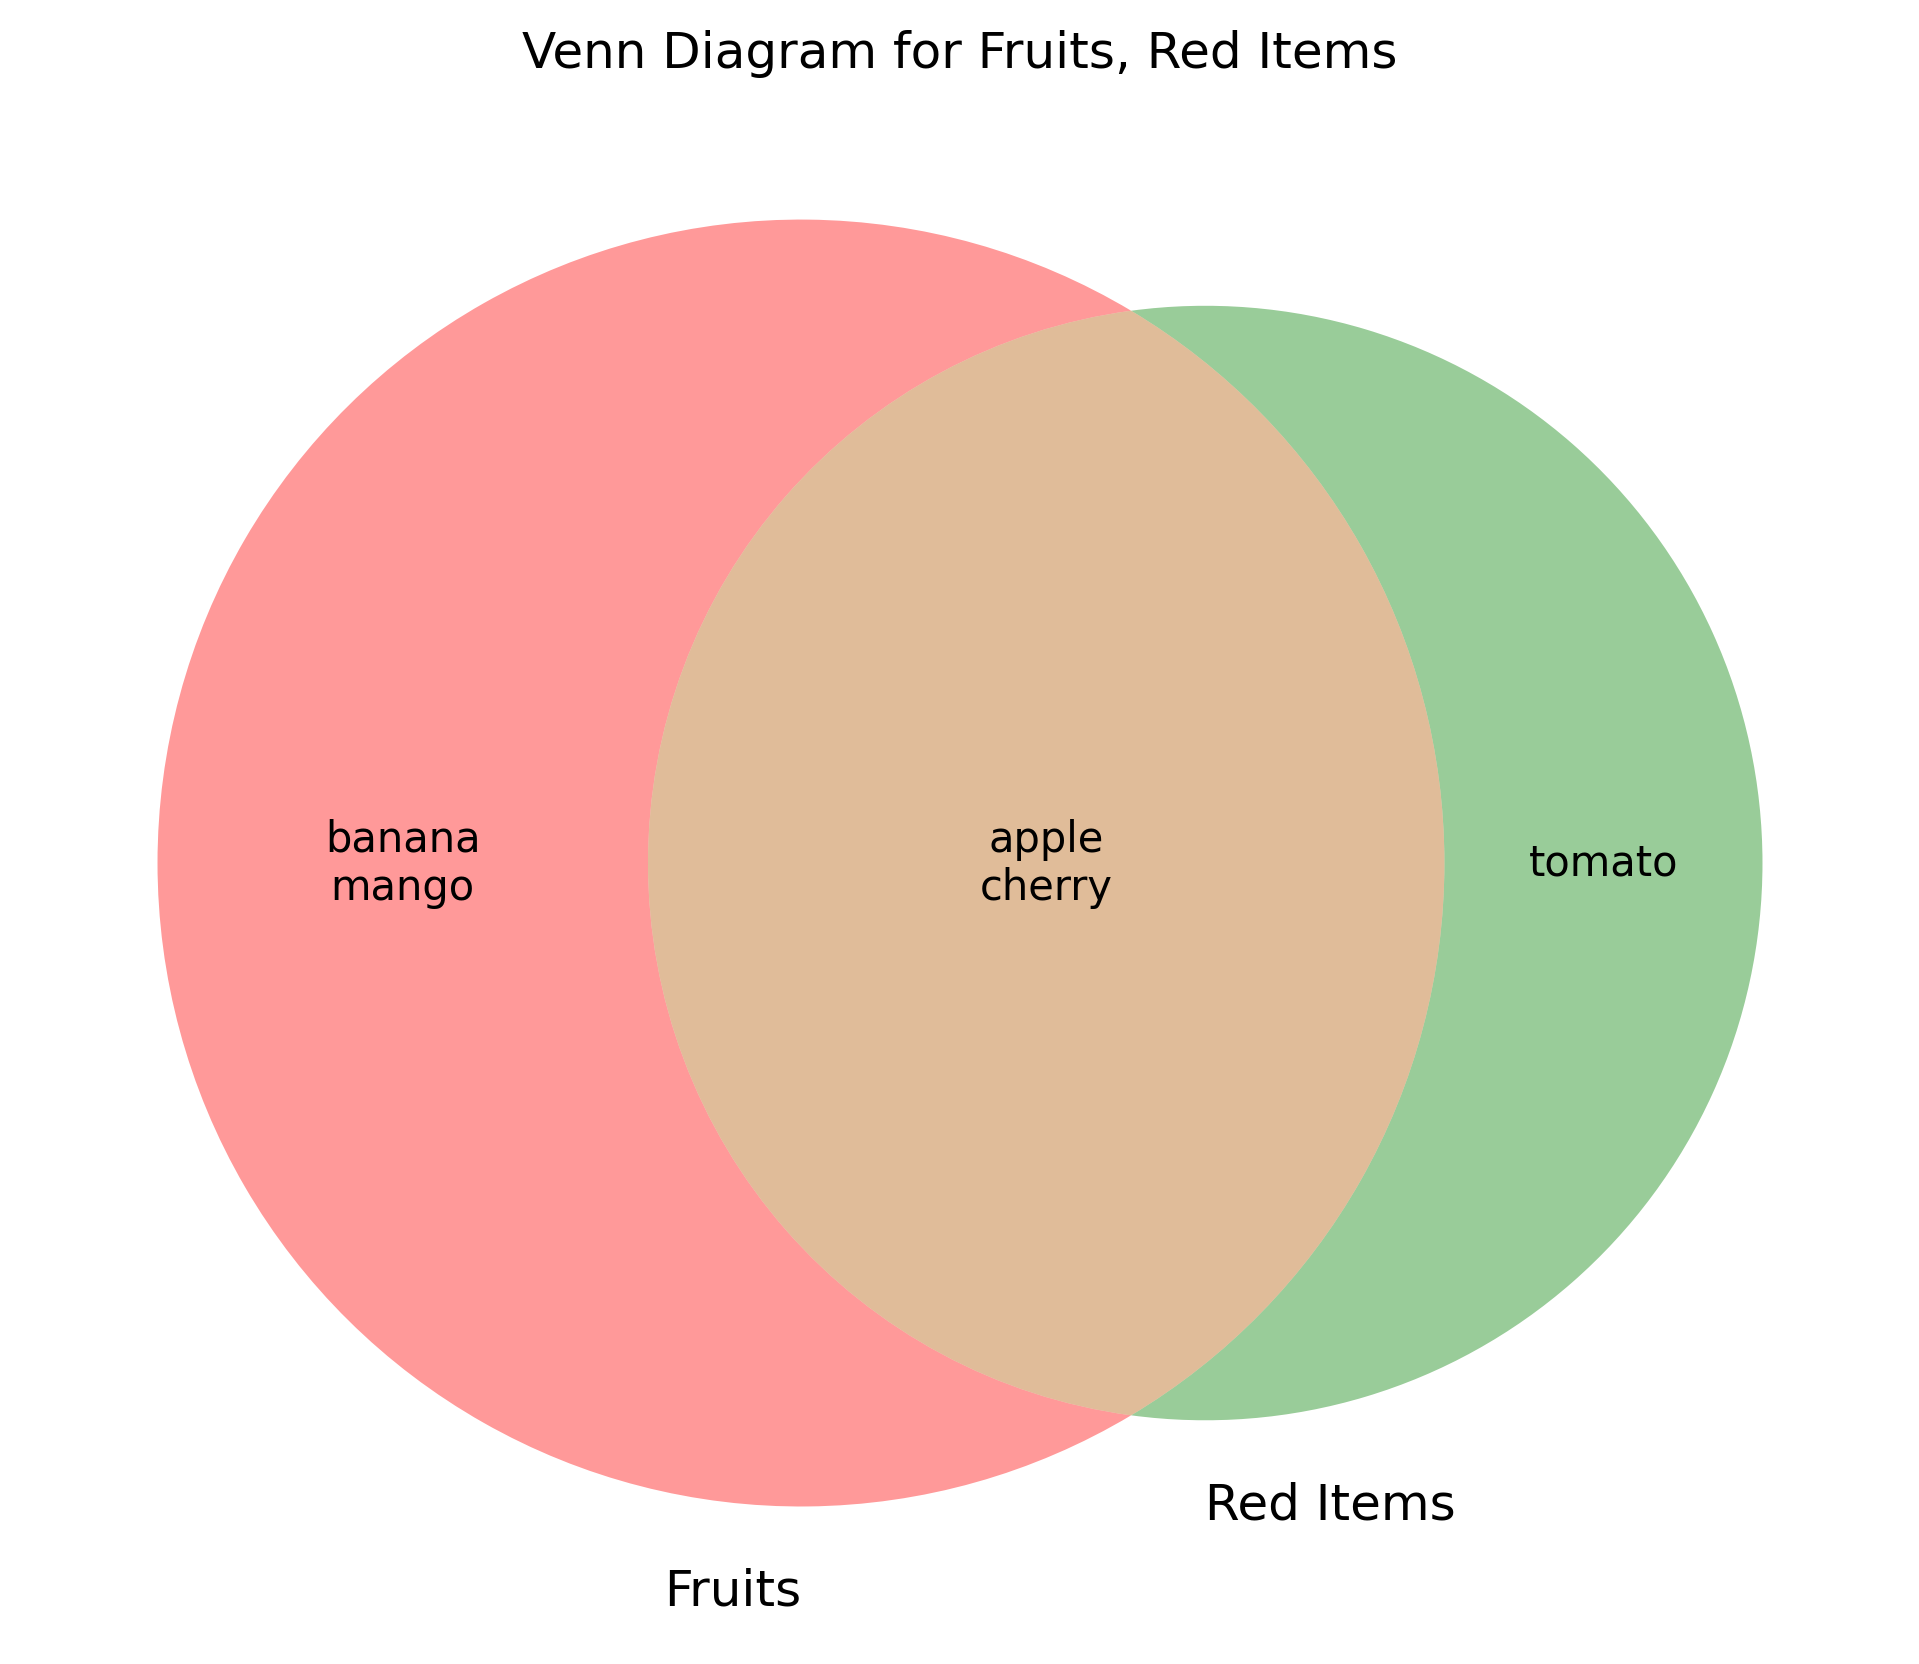
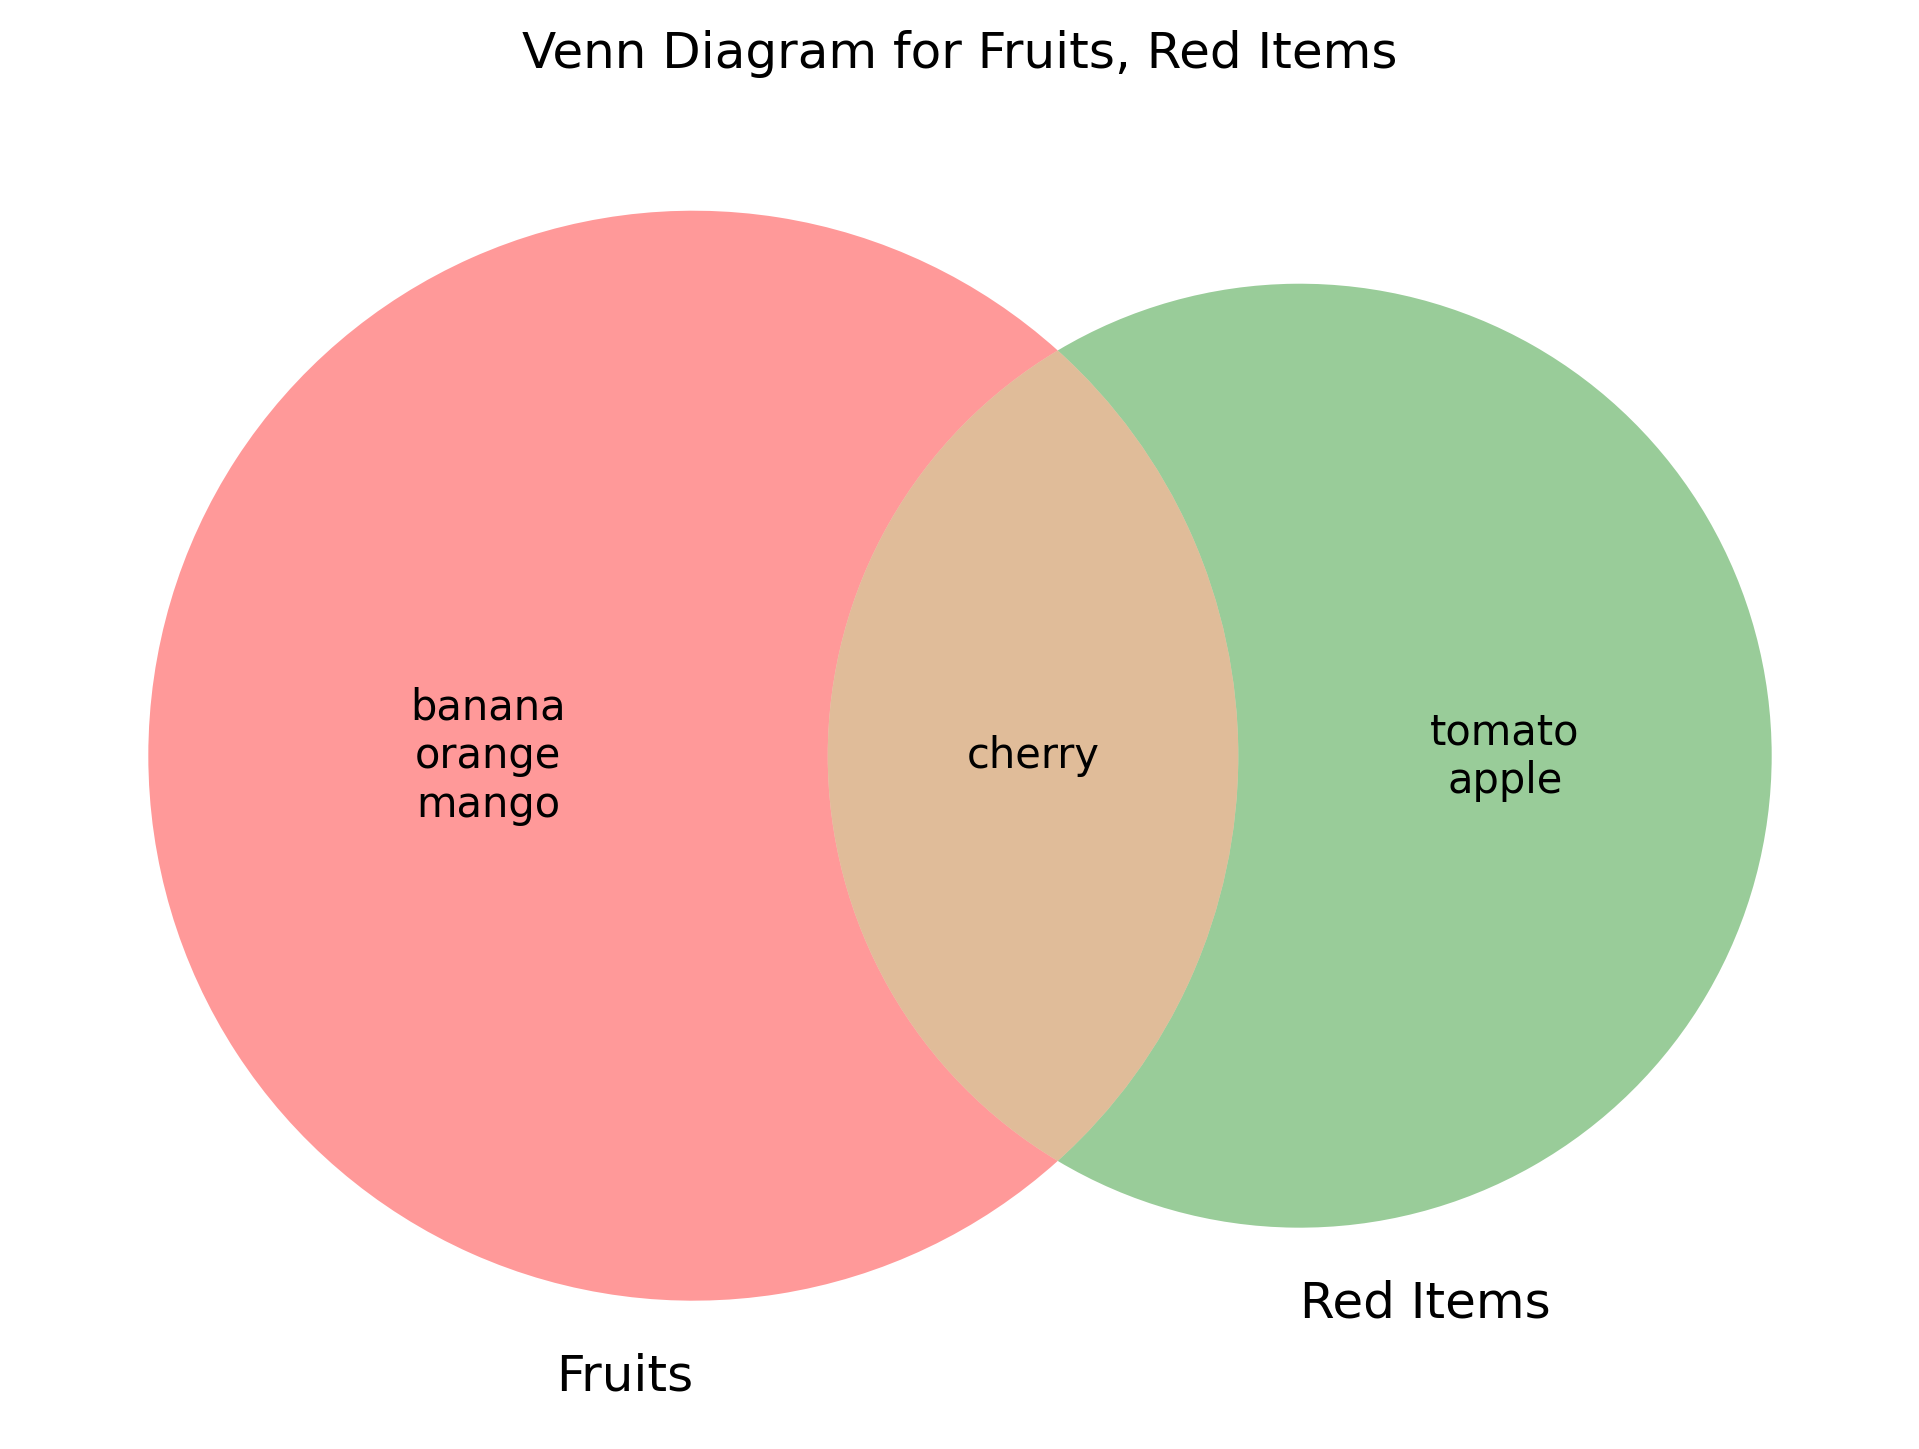
Delete old diagrams and create new ones based on the run's output
Added a `cleanup_old_diagrams` method to `VennOrganizer` which uses `glob` and `os.remove` to delete all "venn_*.png" files. This method is called at the beginning of the `if __name__ == "__main__":` block to ensure a fresh set of diagrams is generated for each run.

Replit-Commit-Author: Agent
Replit-Commit-Session-Id: 4cc96e70-dbf0-428c-a2a9-dc341628647d
Replit-Commit-Checkpoint-Type: full_checkpoint

diff --git a/main.py b/main.py
@@ -1,9 +1,21 @@
 import matplotlib.pyplot as plt
 from matplotlib_venn import venn2, venn3
+import os
+import glob
 
 class VennOrganizer:
     def __init__(self):
         self.categories = {}
+    
+    def cleanup_old_diagrams(self):
+        """Delete all existing venn diagram PNG files."""
+        old_files = glob.glob("venn_*.png")
+        for file in old_files:
+            try:
+                os.remove(file)
+                print(f"Deleted old diagram: {file}")
+            except OSError:
+                pass  # File might already be deleted
 
     def add_category(self, name, items):
         """Add a category with its items (as a list or set)."""
@@ -61,8 +73,11 @@ class VennOrganizer:
 # Example usage
 if __name__ == "__main__":
     organizer = VennOrganizer()
+    
+    # Clean up old PNG files from previous runs
+    organizer.cleanup_old_diagrams()
 
-    organizer.add_category("Fruits", ["apple", "banana", "cherry", "mango"])
+    organizer.add_category("Fruits", ["orange", "banana", "cherry", "mango"])
     organizer.add_category("Red Items", ["apple", "cherry", "tomato"])
     organizer.add_category("Tropical", ["mango", "banana", "pineapple", "papaya"])
 
